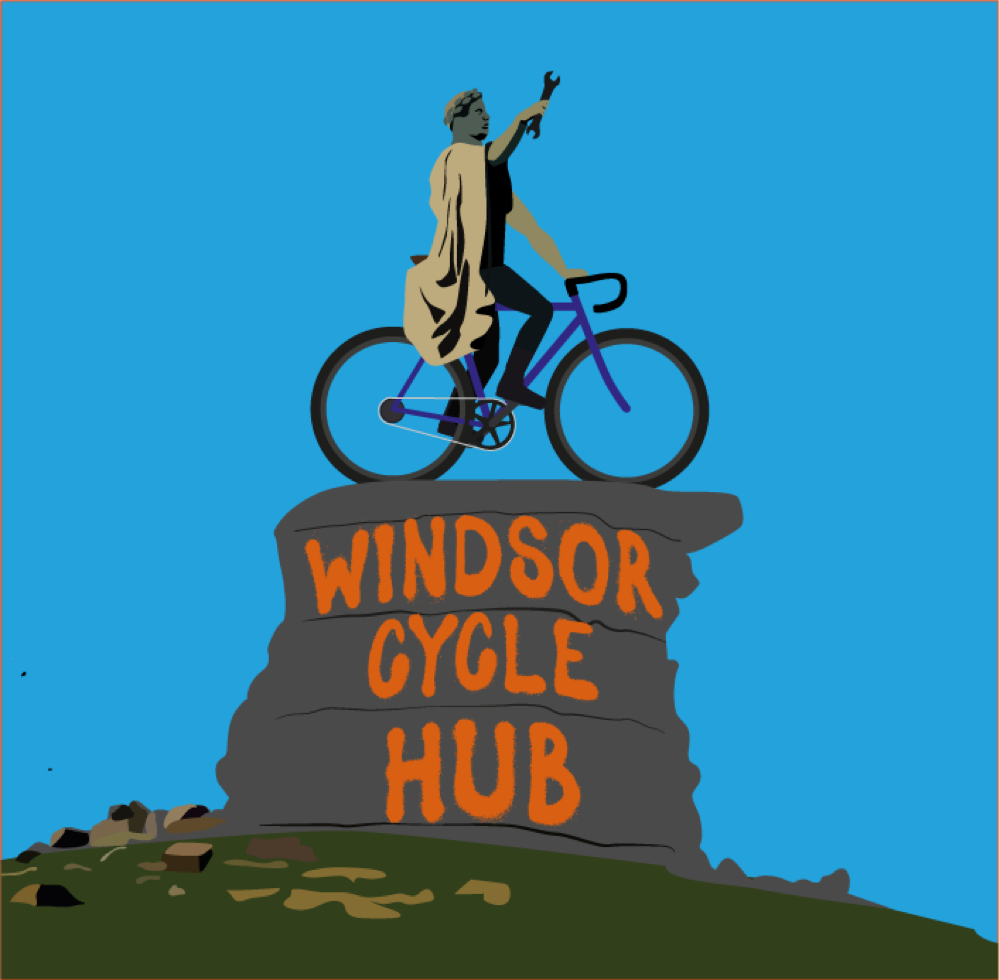
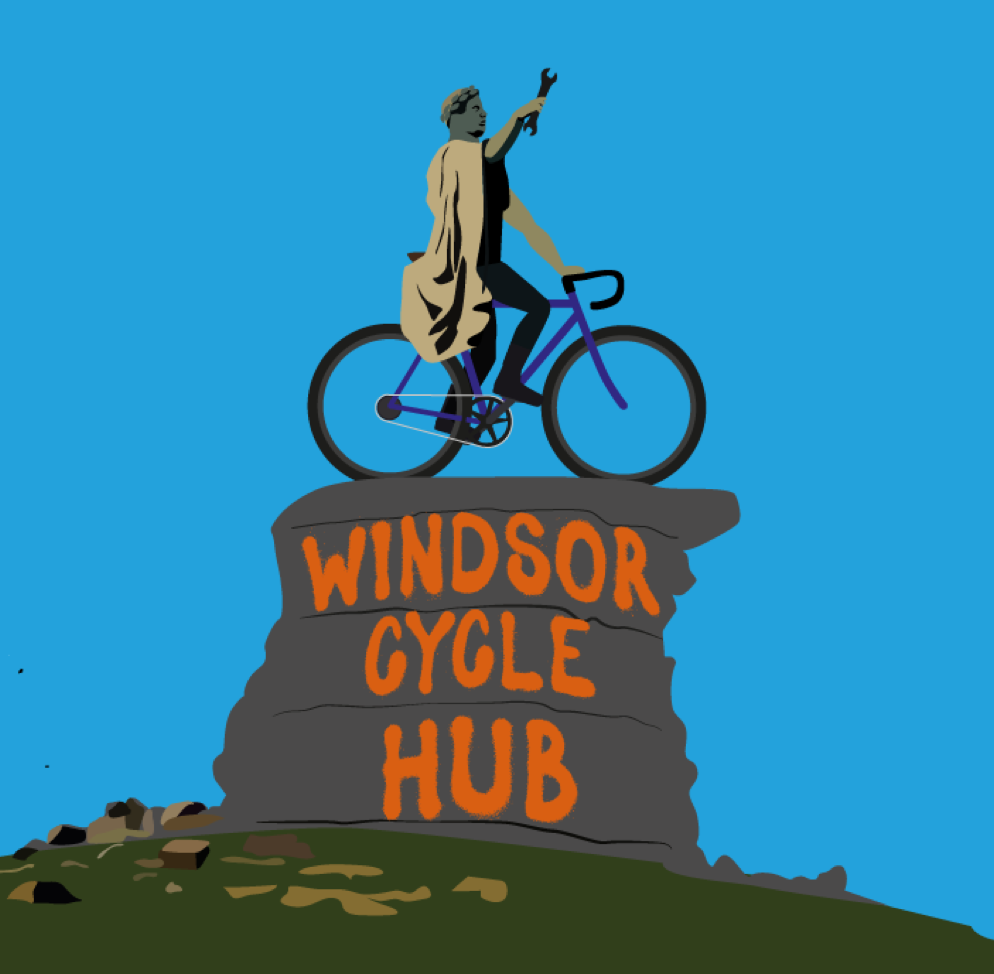
fix(archive): sharpen grid covers and drop tile radius and border
Landscape covers on the archive grid rendered blurry, and the orizuros
and windsor-cycle-hub covers showed a dark line along the top edge.

The tile `sizes` described the square slot width, but `object-cover`
fills a square by height when the cover is landscape, so the image is
drawn wider than the slot. A 1000x568 cover in a 256px tile was served
the 512w file and stretched 1.76x on a 2x screen. Separately, the flat
illustration and UI covers were encoded at the photo quality (78), and
the two masters carried dark rows baked into their edges.

- Scale each tile's `sizes` by the cover's width-to-height ratio when
  it is above 1. Landscape covers now load the 900w file.
- Encode five flat archive covers at quality 95.
- Crop the top row off orizuros.jpg and 3px off every edge of
  windsor-cycle-hub.png.
- Remove the rounded corners and border from the grid tiles.

diff --git a/app/components/ArchiveGrid.tsx b/app/components/ArchiveGrid.tsx
@@ -28,6 +28,34 @@ import {
 const FILTERS = ["All", ...ARCHIVE_CATEGORIES] as const;
 type Filter = (typeof FILTERS)[number];
 
+/*
+  The tile's `sizes`, scaled up for landscape covers.
+
+  `sizes` describes the SQUARE slot, but object-cover fills that square by
+  height when the cover is wider than it is tall, so the image is drawn wider
+  than the tile and its sides are cropped off. A 16:9 cover in a 256px tile is
+  really drawn about 450px wide. Left as the slot width, the browser fetches a
+  file sized for 256 and stretches it 1.76x, which is what made the landscape
+  covers blurry.
+
+  So each width is multiplied by the cover's width-to-height ratio. Square and
+  portrait covers (ratio 1 or less) fill by width already and are left alone.
+*/
+function tileSizes(cover: string) {
+  const size = imageSize(cover);
+  const ratio = size ? Math.max(1, size.width / size.height) : 1;
+  const k = Math.round(ratio * 100) / 100;
+  const scale = (w: string) => (k === 1 ? w : `calc(${w} * ${k})`);
+
+  return [
+    `(min-width: 1392px) ${scale("256px")}`, // capped: (1152 - 80 - 48) / 4
+    `(min-width: 1024px) ${scale("calc(25vw - 92px)")}`, // 4 across, sidebar + padding
+    `(min-width: 768px) ${scale("calc(33.3vw - 118px)")}`, // 3 across, sidebar appears
+    `(min-width: 640px) ${scale("calc(33.3vw - 27px)")}`, // 3 across, no sidebar yet
+    scale("calc(50vw - 32px)"), // 2 across on a phone
+  ].join(", ");
+}
+
 // ── One tile. Cover image (or placeholder); the title washes in on hover. ───
 //
 // `priority` on the first few: they're on screen the moment the page opens, so
@@ -38,7 +66,7 @@ function Tile({ p, onOpen, priority }: { p: ArchiveProject; onOpen: () => void; 
     <button
       type="button"
       onClick={onOpen}
-      className="group relative aspect-square w-full overflow-hidden rounded-lg border border-border bg-surface text-left"
+      className="group relative aspect-square w-full overflow-hidden bg-surface text-left"
     >
       {p.cover ? (
         /*
@@ -61,13 +89,7 @@ function Tile({ p, onOpen, priority }: { p: ArchiveProject; onOpen: () => void; 
           alt={p.title}
           fill
           priority={priority}
-          sizes={[
-            "(min-width: 1392px) 256px", // capped: (1152 - 80 - 48) / 4
-            "(min-width: 1024px) calc(25vw - 92px)", // 4 across, sidebar + padding
-            "(min-width: 768px) calc(33.3vw - 118px)", // 3 across, sidebar appears
-            "(min-width: 640px) calc(33.3vw - 27px)", // 3 across, no sidebar yet
-            "calc(50vw - 32px)", // 2 across on a phone
-          ].join(", ")}
+          sizes={tileSizes(p.cover)}
           className="object-cover"
         />
       ) : (
